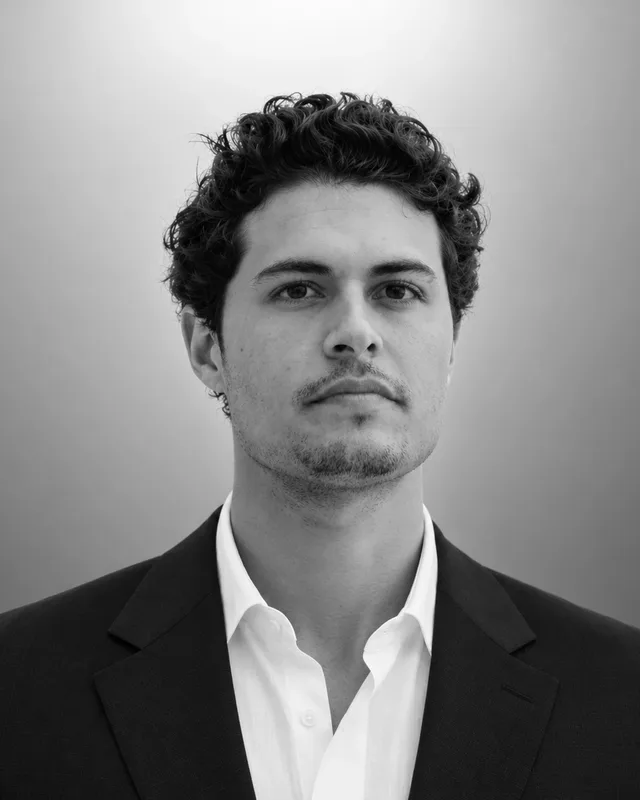
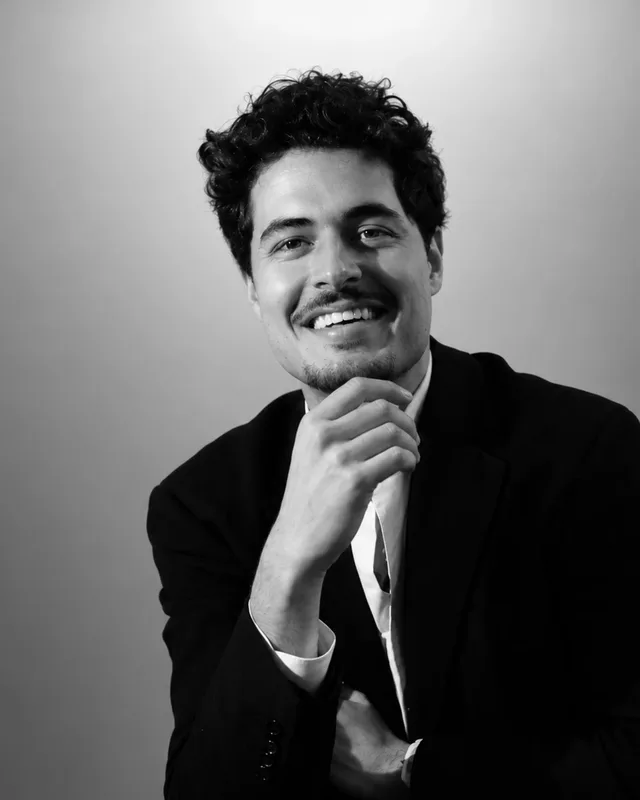
Replace Bernardo's portrait again and zoom the crop to match the row
His third frame is a seated three-quarter shot — leaning on a table, hand to
chin, smiling — where the other four are tight head-and-shoulders. Cropped at
zoom 1 like the rest of them his head filled about a quarter of the card
against their third, the table edge showed along the bottom, and he read as a
different shoot again.

zoom 0.88 with faceX 0.43 crops in to head-and-shoulders and puts him back on
their scale. Chosen against a contact sheet with Bruno beside him rather than
by eye: 0.72 and 0.78 overshot and made his head larger than everyone else's.
It costs no resolution — 0.88 of 1254 crops to 883x1104, still above the 640px
output, so withoutEnlargement never bites.

`zoom` is therefore no longer Tatjana's alone, and the two uses pull opposite
ways: hers widens a tight frame, his tightens a wide one. Both comments
updated, along with the claim in the script and README that all four re-shoots
frame square-on at 0.5 — three of them do, and he is the one that does not.

The rule has now held three times: match the dress, the angle AND the crop
distance. The backdrop alone does not make a set, and neither does the
wardrobe.

diff --git a/README.md b/README.md
@@ -583,7 +583,11 @@ node scripts/optimize-team-photos.mjs
 
 **FOUR OF THE FIVE ARE GENERATIVE RE-SHOOTS.** That is the first thing to know about this directory. The photographs supplied on 7 Sep 2026 were five different shoots — a beach, a sponsor wall, an office, a studio, a curtain, five outfits, one of them black-and-white — and no crop makes them a set. Four were regenerated outside this repo (ChatGPT, 7 Sep 2026, 1254²) from the originals, onto the plain light-grey studio backdrop the fifth already had. **`tatjana-sotirovik` is the untouched photograph**, and it is the reference the other four were matched to.
 
-**Bernardo and Bruno were then regenerated a second time**, later the same day, and the reason generalises: the first pass matched the *backdrop* across the set but not the *dress*. Bernardo came back in a white shirt with a chain and sunglasses, Bruno in a dark open-collar shirt at a three-quarter turn — four studio portraits that still read as four different occasions. Both are now square-on in a dark jacket over a white shirt, which is what Lev and Lucas were already wearing. **Match the dress and the angle as well as the ground; the backdrop alone does not make a set.**
+**Bernardo and Bruno were then regenerated a second time**, later the same day, and the reason generalises: the first pass matched the *backdrop* across the set but not the *dress*. Bernardo came back in a white shirt with a chain and sunglasses, Bruno in a dark open-collar shirt at a three-quarter turn — four studio portraits that still read as four different occasions. Both came back square-on in a dark jacket over a white shirt, which is what Lev and Lucas were already wearing.
+
+**Bernardo was then replaced a third time, and that is why `zoom` is no longer Tatjana's alone.** His third frame is a seated three-quarter shot — leaning on a table, hand to chin — where the other four are tight head-and-shoulders. At `zoom: 1` his head filled about a quarter of the card against their third, the table edge showed along the bottom, and he read as a different shoot again. `zoom: 0.88` with `faceX: 0.43` crops in to head-and-shoulders and puts him back on their scale, chosen against a contact sheet with Bruno beside him rather than by eye alone. It costs no resolution: 0.88 of 1254 still lands above the 640px output.
+
+So the rule that has now held three times: **match the dress, the angle AND the crop distance.** The backdrop alone does not make a set, and neither does the wardrobe.
 
 **The masters are committed, which is a break from the other asset scripts.** `optimize-bg-video.mjs` reads its sources out of `~/Downloads`, and that is fine for a 100MB video that can be downloaded again. A generative output is one-shot and non-deterministic: clean that folder and it is gone for good. So the five masters live in `docs/assets/team/`, named for the person rather than by whatever the tool that made them called the file — 520KB for all five, and the pipeline now runs for anyone who clones the repo.
 
@@ -591,7 +595,7 @@ The **name-to-file mapping for the originals was read, not guessed.** They arriv
 
 **Every output is greyscale**, set in the script rather than by a CSS filter on the page, so what ships is what renders and it keeps applying if a master is replaced.
 
-**Only the horizontal is cropped, except for Tatjana.** The four re-shoots are square, so top and bottom stay whole and `faceX` decides which side loses more of the trim. All four now sit at `0.5`: the centroid of the dark pixels in each master's hair band (y 15–32%) measures 0.504 / 0.485 / 0.498 / 0.539, so a centred crop puts every head within a couple of percent of the middle. Bernardo carried 0.51 and Bruno 0.55 against their *first* re-shoots, and both came back to centre when the masters were replaced — **re-measure when a master changes rather than carrying its old number over.** Hers is a wider shot: her head fills about 32% of the frame against the others' ~40%, so at the same crop she read as standing further back than everyone else, which was the last thing breaking the row. **`zoom` exists for her alone.** 0.8 pulls her in to match, and it costs resolution rather than inventing any — the crop lands at 512×640 and `withoutEnlargement` leaves it there, about 6% under the card's 2× DPR ideal. A re-shoot of hers would close that properly; upscaling would only fake it.
+**Only the horizontal is cropped, except for Tatjana.** The four re-shoots are square, so top and bottom stay whole and `faceX` decides which side loses more of the trim. Lev, Bruno and Lucas sit at `0.5`: the centroid of the dark pixels in each master's hair band (y 15–32%) measures 0.485 / 0.498 / 0.539, so a centred crop puts those three within a couple of percent of the middle. Bernardo is the exception and has now had three different sets of numbers — 0.51, then 0.5, then the zoomed crop above. **Re-measure when a master changes rather than carrying its old number over**; every value in that table has been wrong at least once because someone did. Hers is a wider shot: her head fills about 32% of the frame against the others' ~40%, so at the same crop she read as standing further back than everyone else, which was the last thing breaking the row. **`zoom` exists for her alone.** 0.8 pulls her in to match, and it costs resolution rather than inventing any — the crop lands at 512×640 and `withoutEnlargement` leaves it there, about 6% under the card's 2× DPR ideal. A re-shoot of hers would close that properly; upscaling would only fake it.
 
 **If a replaced photo does not appear, the dev image cache is at `.next/dev/cache/images`.** Not `.next/cache/images` — Next 16 moved it, and the old path no longer exists, so deleting it silently does nothing. The optimizer keys on `(url, width, quality)` and the URL does not change when the file behind it does, so re-running this script leaves the dev server serving the previous crop indefinitely. **Restarting `next dev` does not clear it either** — the cache is on disk, not in memory. `rm -rf .next/dev/cache/images` does. The tell is the served image's dimensions: fetch `/_next/image?url=%2Fteam%2F<slug>.webp&w=640&q=75` and compare against the file, because a stale entry keeps the old source's aspect.
 
